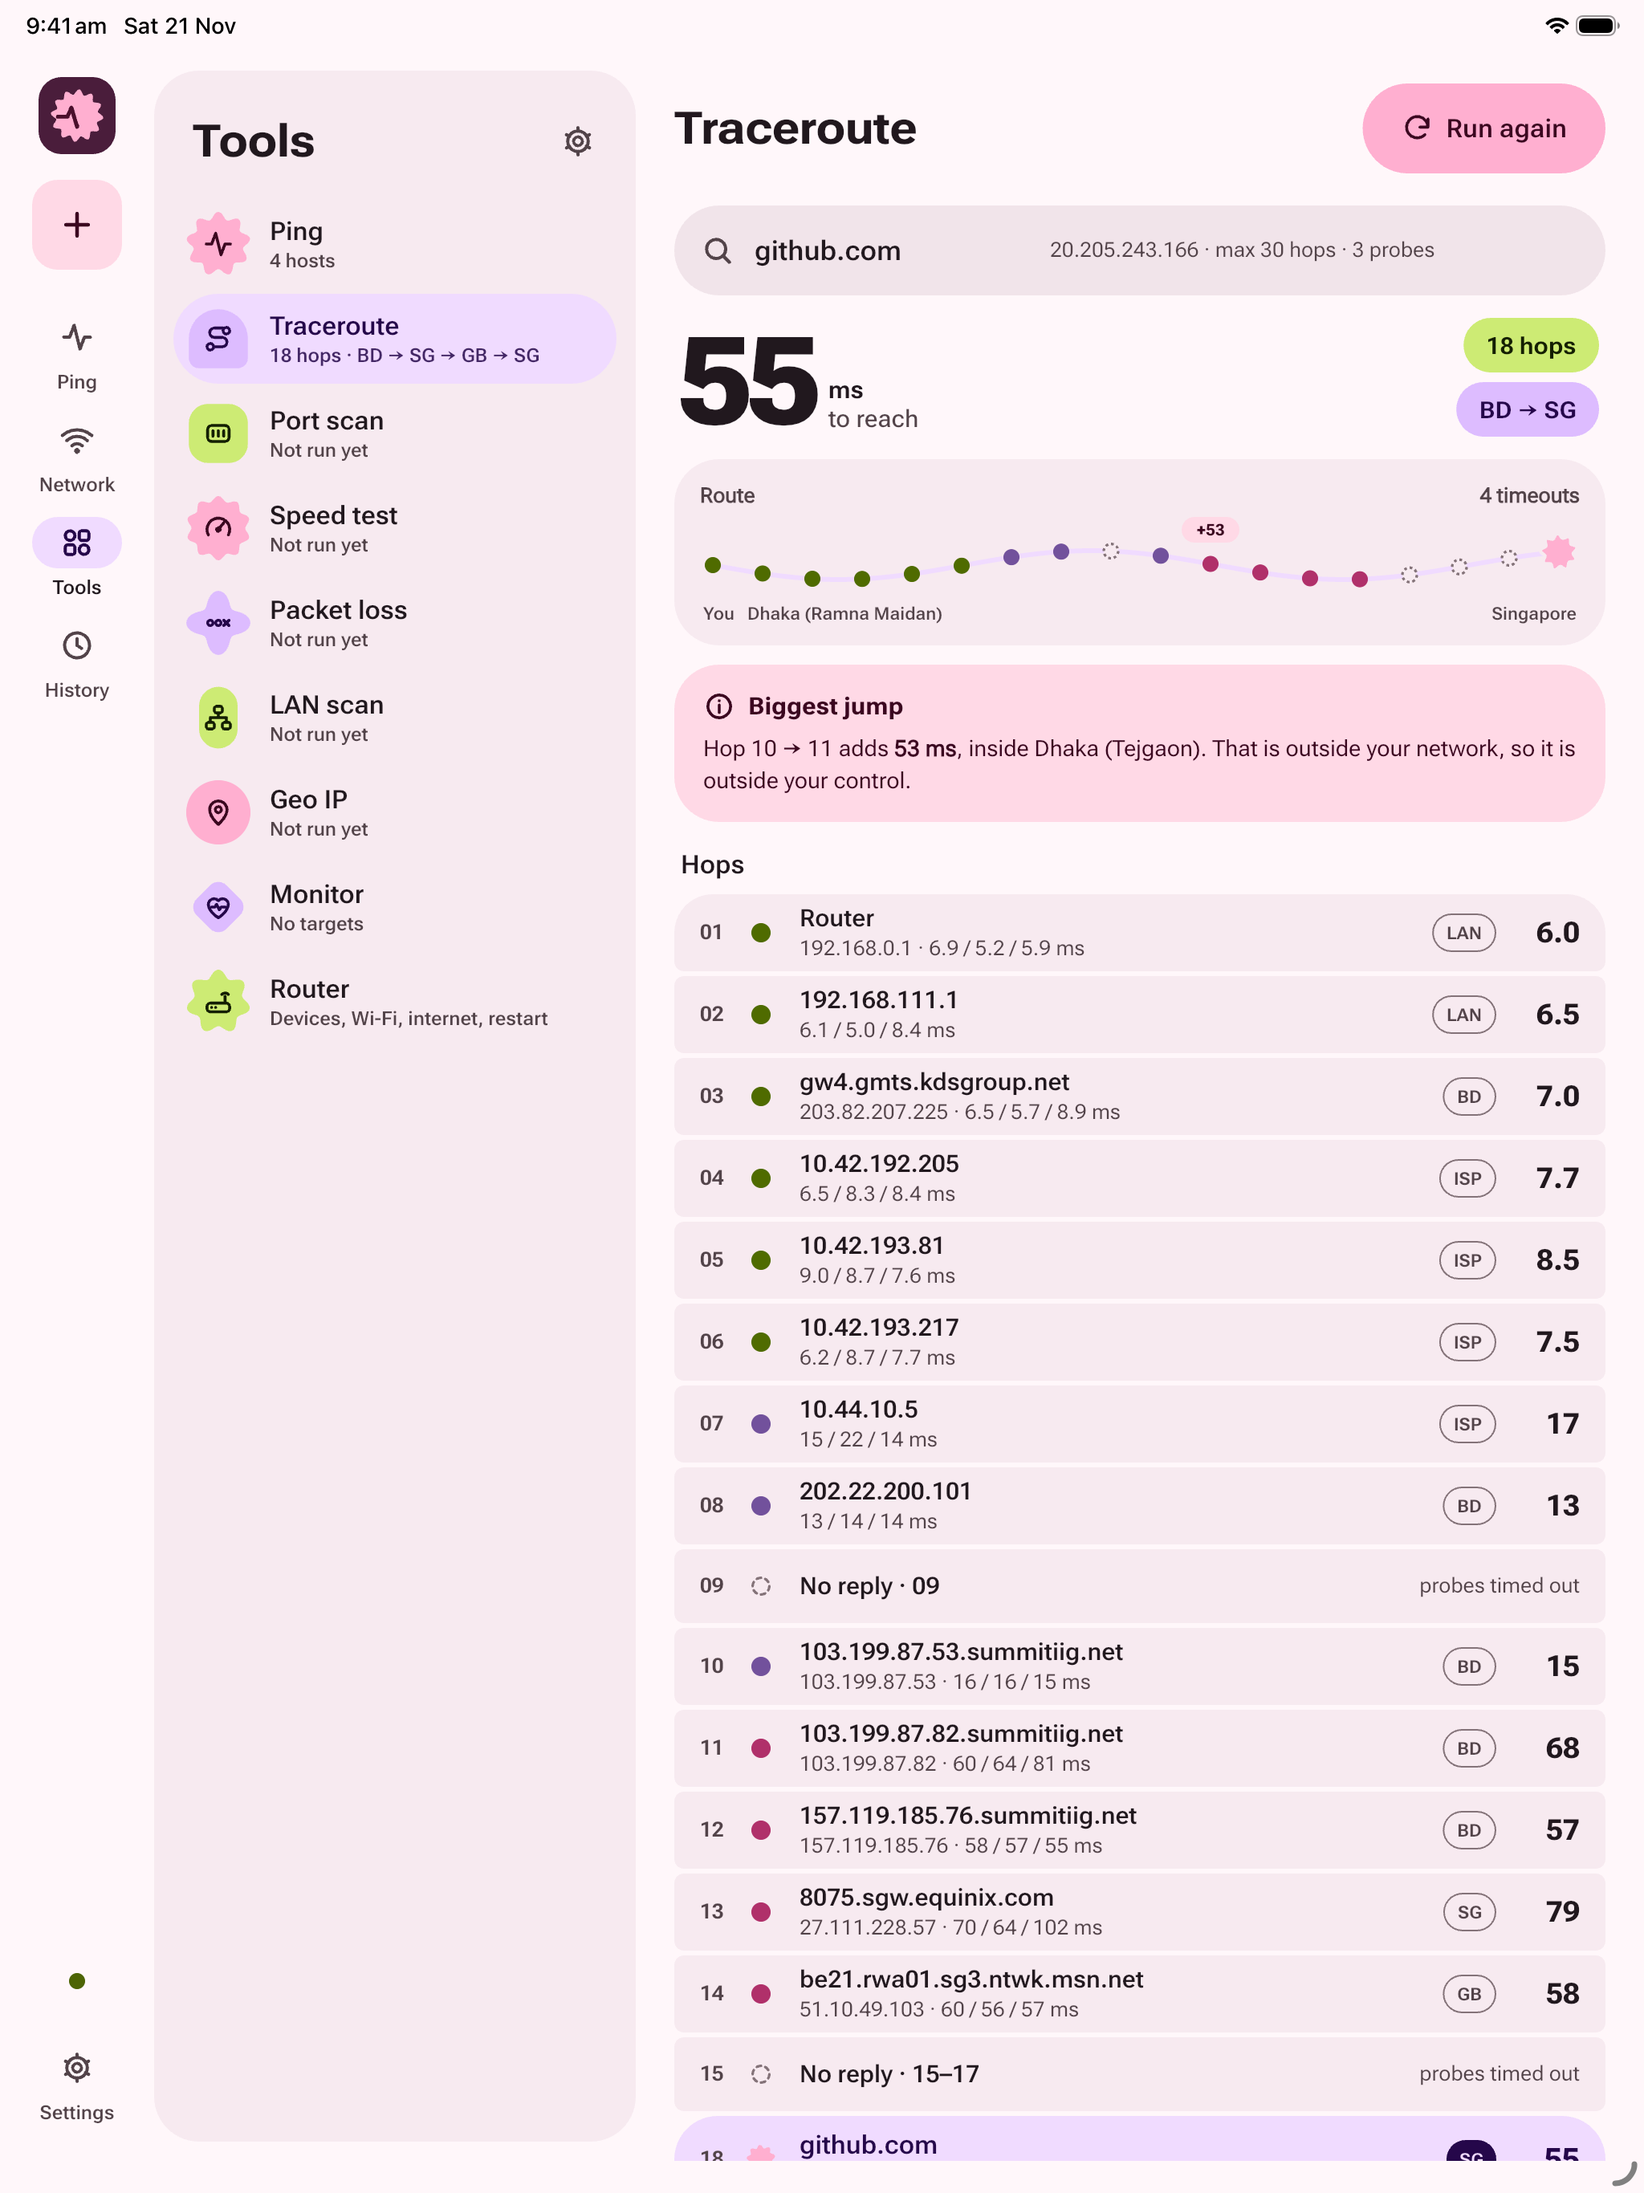
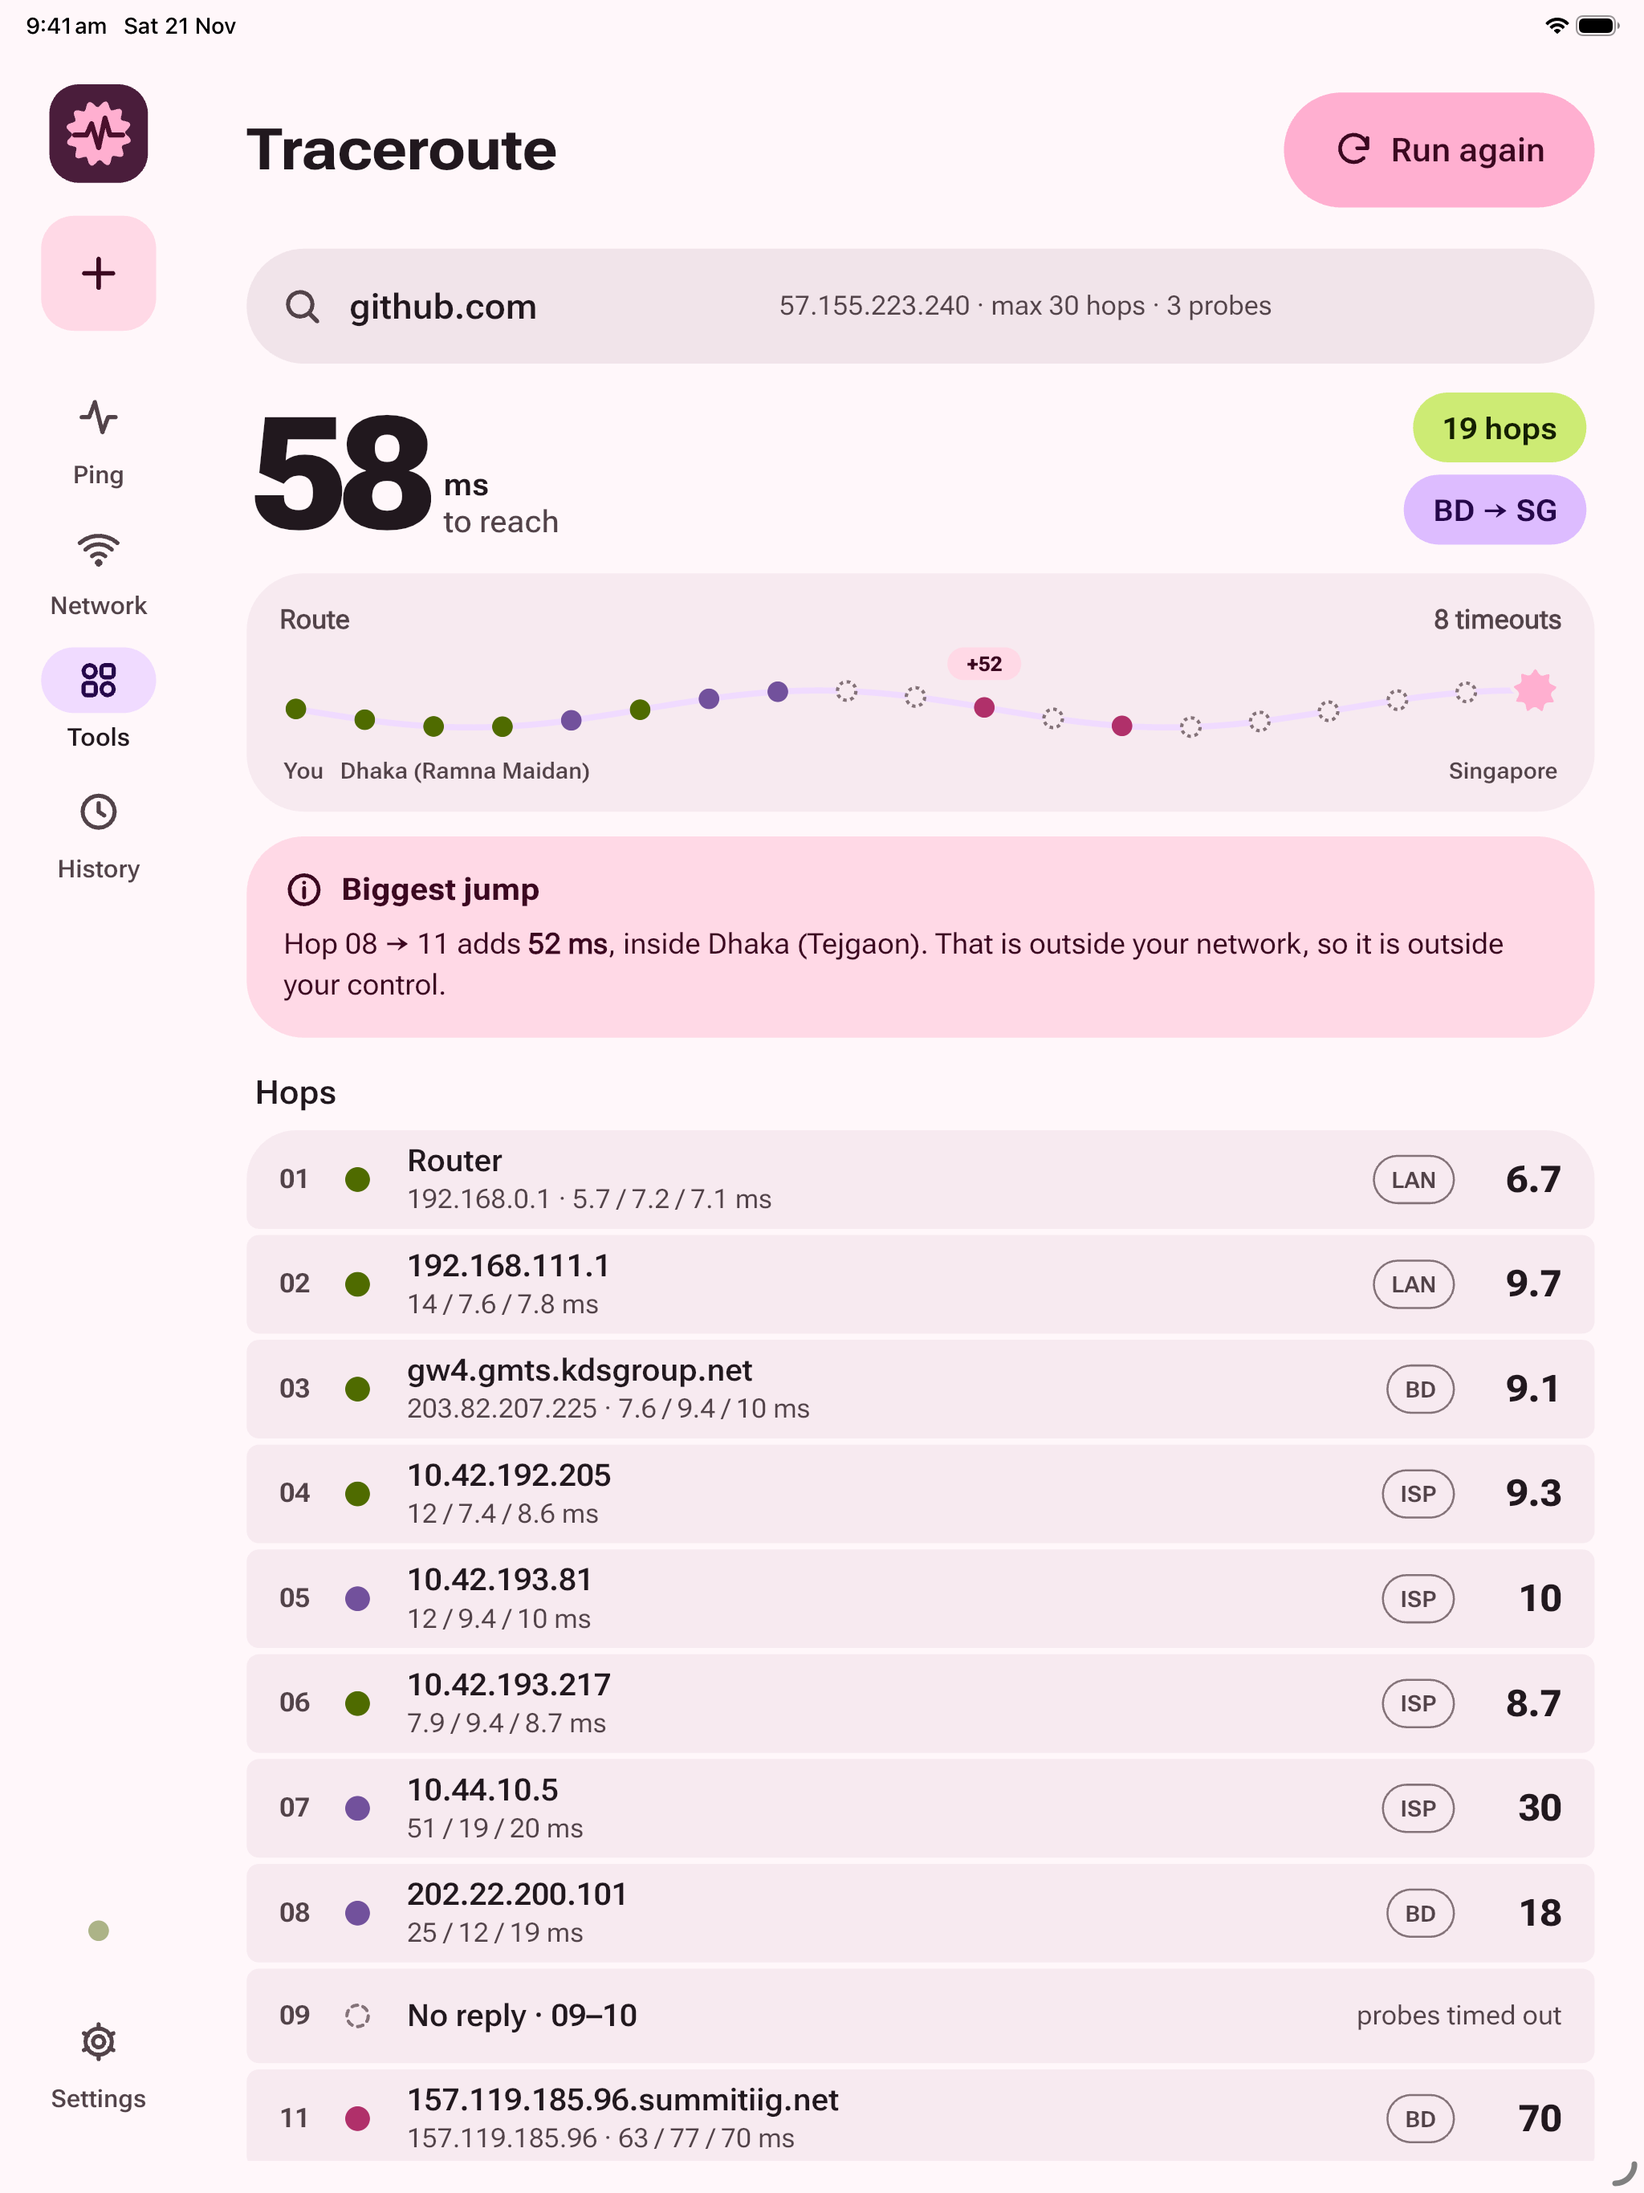
docs: :camera_flash: retake iPad App Store screenshots with the fixed large-iPad layout

diff --git a/docs/APP_STORE_LISTING.md b/docs/APP_STORE_LISTING.md
@@ -93,9 +93,9 @@ Raw captures (live data on the office network, status bar overridden to 9:41) fo
 
 - `app-store-screenshots/iphone/` — iPhone 17 Pro Max (iOS 26.5), 1320×2868 (6.9"), 11 shots: ping, traceroute,
   speed (live + result), LAN scan, router, router devices, port scan, Geo IP, monitor, tools.
-- `app-store-screenshots/ipad/` — iPad Air 13-inch M4 (iOS 26.5), 2048×2732 (13"), 9 shots: ping board, traceroute,
-  speed (live + result), router, router devices, LAN scan, Geo IP, tools. (The iPad Pro 13" iOS 27 simulator's
-  system UI wouldn't render, so the iPad Air was used; 2048×2732 is an accepted 13" size.)
+- `app-store-screenshots/ipad/` — iPad Air 13-inch M4 (iOS 26.5), 2048×2732 (13"), 10 shots: ping board (6 hosts),
+  traceroute, speed (live + result), router, router devices, LAN scan, port scan, Geo IP, tools. Retaken Nov 21, 2026
+  after the large-iPad layout fix (`PulseTabletScale`: 13" iPads lay out like the 800 dp design tablet, scaled up).
 
 Avoided: own public IP / location (Geo IP shows github.com), the router's WAN IP is masked by the app.
 
